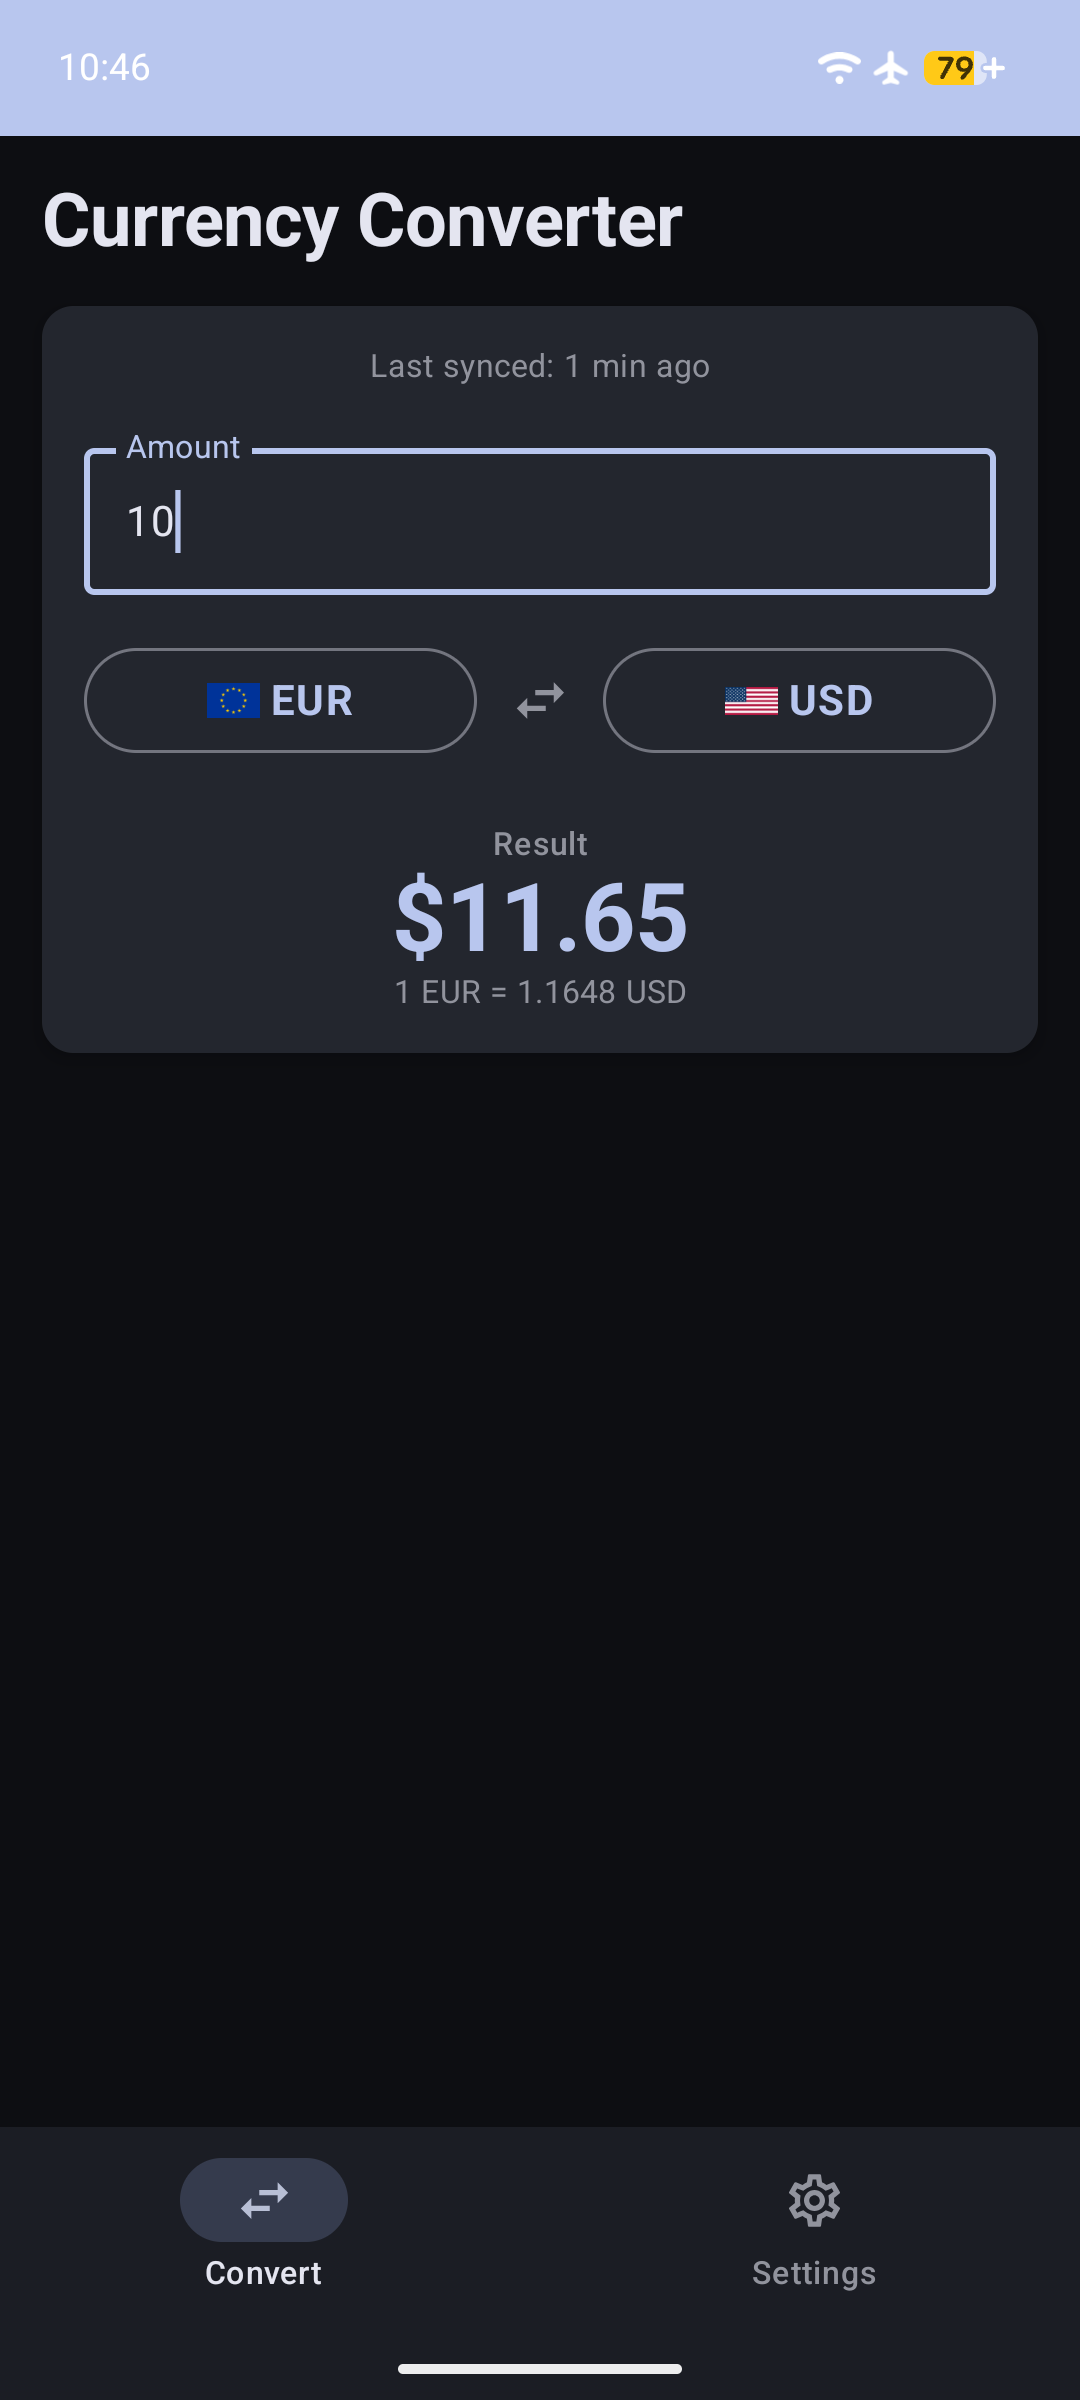
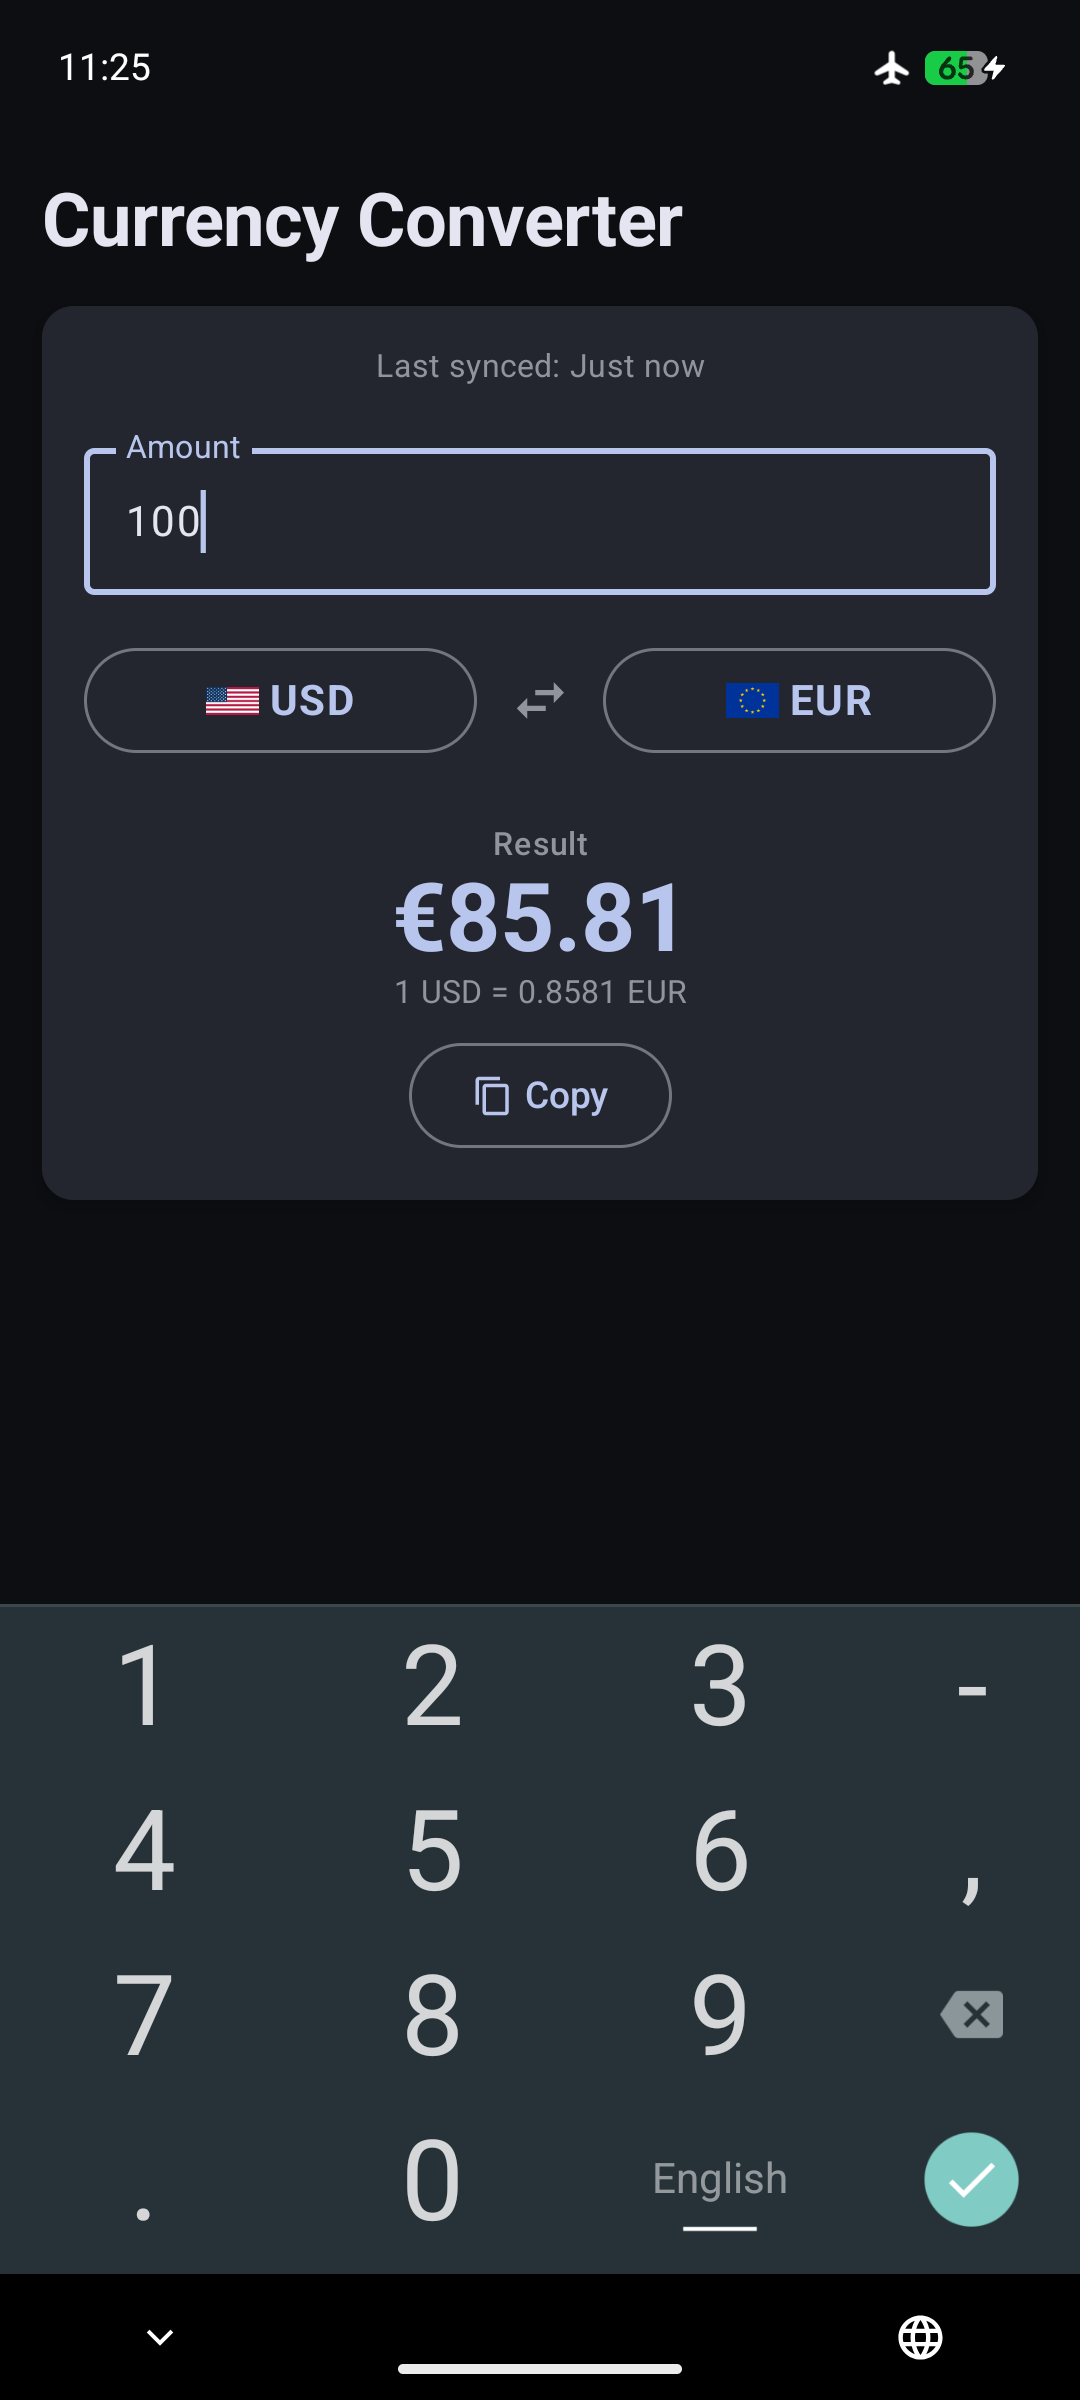
updated screenshots

diff --git a/README.md b/README.md
@@ -24,9 +24,7 @@ The app fetches exchange rates from the free [Frankfurter API](https://frankfurt
 
 ## Screenshots
 
-<img src="fastlane/metadata/android/en-US/images/phoneScreenshots/1.png" width="200" alt="Conversion screen">
-<img src="fastlane/metadata/android/en-US/images/phoneScreenshots/Screenshot_20260517-104736.png" width="200" alt="Currency picker">
-<img src="fastlane/metadata/android/en-US/images/phoneScreenshots/Screenshot_20260517-104810.png" width="200" alt="Settings">
+<img src="fastlane/metadata/android/en-US/images/phoneScreenshots/1.png" width="180" alt="Screenshot 1"> <img src="fastlane/metadata/android/en-US/images/phoneScreenshots/2.png" width="180" alt="Screenshot 2"> <img src="fastlane/metadata/android/en-US/images/phoneScreenshots/3.png" width="180" alt="Screenshot 3"> 
 
 ## Building
 